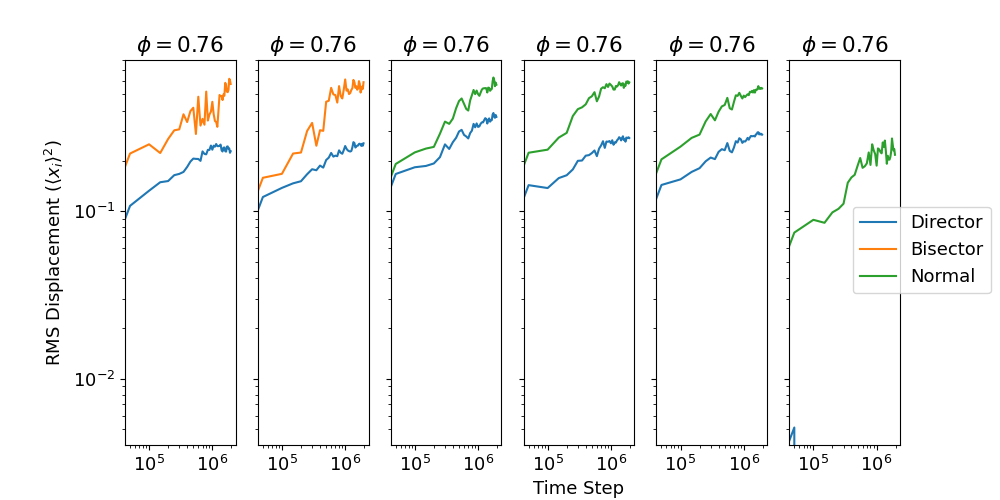
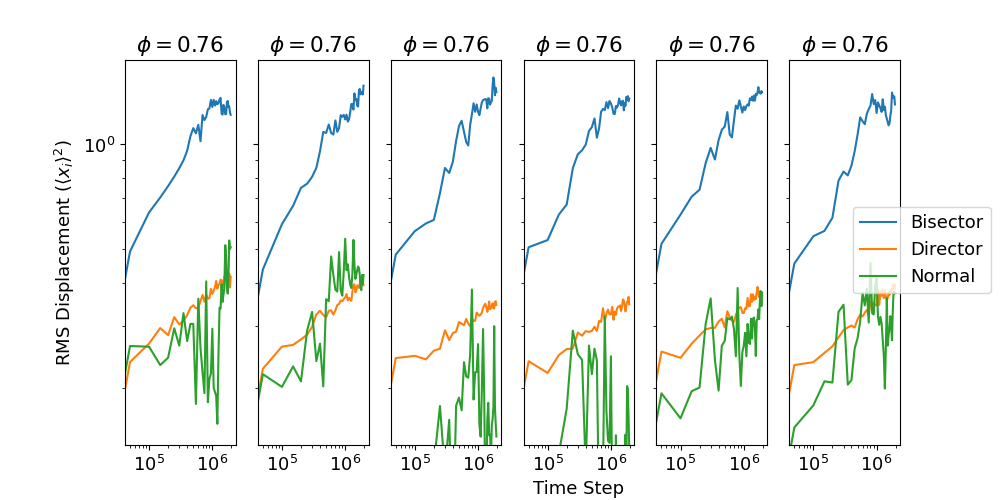
updated displacement matrix analysis

diff --git a/Phase_Structure/Nunchucks/Fixed_Rigidity/correlation_plot_FT.py b/Phase_Structure/Nunchucks/Fixed_Rigidity/correlation_plot_FT.py
@@ -1,0 +1,275 @@
+"""Optimised method to calculate the pair-wise orientational order correlation function.
+As detailed by Daan Frenkel, uses spherical harmonics so avoid costly angle calculations (which are O(N^2))
+as well as fourier transform methods. 
+Uses the end-to-end molecule vector as the director."""
+
+import numpy as np
+import matplotlib.pyplot as plt
+import matplotlib.cm as cm
+import seaborn as sns
+from scipy.ndimage import uniform_filter1d  # for rolling average
+from scipy.special import sph_harm
+from phase_plot import vol_frac
+
+FILE_ROOT = "output_T_0.5_time_"  # two underscores to match typo in previous code
+SAMPLING_FREQ = 20  # only samples one in X files (must be integer)
+SEPARATION_BIN_NUM = 20  # number of bins for radius dependance pair-wise correlation
+
+# mol_length = 10  #uncomment on older datasets
+
+plt.rcParams.update({"font.size": 13})  # for figures to go into latex at halfwidth
+
+# READ PARAMETER VALUES FROM LOG FILE
+
+file_name = "log.lammps"
+log_file = open(file_name, "r")
+mix_steps_values = []
+
+for i, line in enumerate(log_file):
+    """For loop iteratres over every line in file to find the required variables.
+
+    However, because the dump_interval occurs last (in the main body not the preamble)
+    we break at this point to avoid reading the whole file unnecessarily."""
+
+    if "variable N" in line:  # to extract independant variable value of N
+        for t in line.split():  # separate by whitespace
+            try:
+                N_molecules = int(t)
+            except ValueError:
+                pass  # any non-floats in this line are ignored
+
+    if "variable len" in line:  # to extract length of molecule
+        for t in line.split():
+            try:
+                mol_length = int(t)
+            except ValueError:
+                pass  # any non-floats in this line are ignored
+
+    if "dump" and "all custom" in line:  # to extract time interval for dump
+        for t in line.split():
+            try:
+                dump_interval = int(t)
+                # interval is the last integer in that line
+            except ValueError:
+                pass
+        break  # got all data, break from for loop
+
+    if "variable mix_steps" in line:  # to extract mix_steps (for shrinking)
+        run_num = 0  # counts number of runs
+        for t in line.split():
+            try:
+                mix_steps_values.append(int(t))
+                run_num += 1
+            except ValueError:
+                pass
+
+    if "variable run_steps" in line:  # to extract run_steps (for equilibration)
+        for t in line.split():
+            try:
+                equilibrium_time = int(t)  # time per run
+            except ValueError:
+                pass
+        # this comes up first in file so no searching variable here
+
+log_file.close()
+
+tot_mix_time = sum(mix_steps_values)
+run_time = tot_mix_time + run_num * equilibrium_time
+time_range = range(0, int(run_time), int(dump_interval * SAMPLING_FREQ))
+print(
+    "N_molecules, run_time, dump_interval = "
+    + str((N_molecules, run_time, dump_interval))
+)
+
+
+# time_range = range(0, 3300000, 100000)  # FOR SIMPLICITY IN TESTING
+
+
+def find_angles(vec_array):
+    """Finds spherical angles of cartesian position. Returns theta and phi in N x 2 array
+    
+    vec_array should be of size N x 3, for N angles (ie N particles)
+    Choice of (normalised) base vector is arbitrary in order param formulation"""
+
+    assert vec_array.shape[1] == 3, "Vectors should be three dimensional"
+    radius = np.linalg.norm(vec_array, axis=1)
+    theta = np.arccos(vec_array[:, 2] / radius)
+    phi = np.arctan2(vec_array[:, 1], vec_array[:, 0])
+    return theta, phi
+
+
+def find_separations(pos_array, base_pos, box_dim):
+    """Finds separation of positions in array from a base position
+
+    This method finds the minimum separation, accounting for the periodic BC
+    pos1, pos2 are the position vectors of the two points
+    box_dim is a vector (of equal length) giving the dimensions of the simulation region"""
+
+    separation_data = pos_array - base_pos
+    for n in range(pos_array.shape[0]):
+        for i in range(3):  # for 3 dimensional vector
+            if np.abs(pos_array[n, i] - base_pos[i]) > box_dim[i] / 2:
+                # use distance to ghost instead
+                separation_data[n, i] = box_dim[i] - np.abs(
+                    pos_array[n, i] - base_pos[i]
+                )
+
+    return np.linalg.norm(separation_data, axis=1)
+
+
+def spherical_harmonic_sum(theta_array, phi_array, l, m):
+    """ Returns sum  of spherical harmonics of order l,m"""
+    angles_sum = np.sum(sph_harm(m, l, theta_array, phi_array).real)
+    return angles_sum
+
+
+def correlation_func(data, box_dim, bin_num, order):
+    """Input data in array of size Molecule Number x 3 x 3
+
+    Input data will be rod_positions array which stores input data   
+    First index gives molecule number (up to size N_molecules)
+    Second index gives particle number within molecule (first/last)
+    Third index gives the component of the position (x,y,z)
+
+    Also input  'order' - order of correlation function to compute
+                'box_dim' - list of simulation box dimensions
+                'bin_num' - integer value for number of radius bins to evaluate
+
+    Returns array of correlation data at each radius"""
+
+    directors = data[:, 2, :] - data[:, 0, :]
+    theta_array, phi_array = find_angles(directors)
+
+    max_separation = np.linalg.norm(box_dim) / 2
+
+    bin_width = max_separation / bin_num
+    separation_bins = np.linspace(0, max_separation, bin_num, endpoint=False)
+    correlation_data = np.zeros_like(separation_bins)
+
+    for n, radius in enumerate(separation_bins):
+        order_param_sum = 0
+        sample_size = 0
+
+        for i in range(N_molecules):
+            running_tot = 0
+
+            separation_array = find_separations(data[:, 2, :], data[i, 2, :], box_dim)
+            relevant_theta = np.ma.masked_where(
+                np.logical_or(
+                    (separation_array < radius),
+                    (separation_array > (radius + bin_width)),
+                ),
+                theta_array,
+            )
+            relevant_phi = np.ma.masked_where(
+                np.ma.getmask(relevant_theta), phi_array
+            )  # applies the mask of theta on phi
+
+            for m in range(-order, order + 1):  # from -l to l
+                harmonic_at_i = sph_harm(m, order, theta_array[i], phi_array[i]).real
+                harmonics_sum = spherical_harmonic_sum(
+                    relevant_theta, relevant_phi, order, m
+                )
+                # remove i=j term from sum, then multiply by harmonic for molecule i
+                running_tot += (harmonics_sum - harmonic_at_i) * harmonic_at_i
+
+            order_param_sum += (4 * np.pi / (2 * order + 1)) * running_tot
+            sample_size += relevant_theta.count()  # number of pairs sampled
+
+        correlation_data[n] = order_param_sum / sample_size
+
+        print("    radius = " + str(int(radius)) + "/" + str(int(max_separation)))
+    print(correlation_data)
+    return separation_bins, correlation_data
+
+
+# READ MOLECULE POSITIONS
+
+order_param_values = np.zeros(len(time_range))
+volume_values = np.full(len(time_range), np.nan)  # new array of NaN
+for i, time in enumerate(time_range):  # interate over dump files
+    data_file = open(FILE_ROOT + str(time) + ".dump", "r")
+    extract_atom_data = False  # start of file doesn't contain particle values
+    extract_box_data = False  # start of file doesn't contain box dimension
+
+    box_volume = 1
+    box_dimensions = []  # to store side lengths of box for period boundary adjustment
+    rod_positions = np.zeros((N_molecules, 3, 3))
+    """Indices are Molecule Number; Atom number 1st/mid/last ; Positional coord index"""
+
+    for line in data_file:
+        if "ITEM: BOX" in line:  # to start reading volume data
+            extract_box_data = True
+            extract_atom_data = False
+            continue  # don't attempt to read this line
+
+        if "ITEM: ATOMS" in line:  # to start reading particle data
+            extract_box_data = False
+            extract_atom_data = True
+            continue
+
+        if extract_box_data and not extract_atom_data:
+            # evaluate before particle values
+            # each line gives box max and min in a single axis
+            box_limits = []
+            for d in line.split():  # separate by whitespace
+                try:
+                    box_limits.append(float(d))
+                except ValueError:
+                    pass  # any non-floats in this line are ignored
+            box_volume *= box_limits[1] - box_limits[0]
+            # multiply box volume by length of this dimension of box
+            box_dimensions.append(box_limits[1] - box_limits[0])
+
+        if extract_atom_data and not extract_box_data:
+            # evaluate after box dimension collection
+            # each line is in the form "id mol type x y z vx vy vz"
+            particle_values = []
+            for t in line.split():  # separate by whitespace
+                try:
+                    particle_values.append(float(t))
+                except ValueError:
+                    pass  # any non-floats in this line are ignored
+
+            # # Save positional coordatinates of end particles - REGULAR
+            # if int(particle_values[2]) == 1:  # first particle
+            #     rod_positions[int(particle_values[1]) - 1, 0, :] = particle_values[3:6]
+            # if int(particle_values[2]) == int((mol_length + 1) / 2):  # central particle
+            #     rod_positions[int(particle_values[1]) - 1, 1, :] = particle_values[3:6]
+            # if int(particle_values[2]) == mol_length:  # last particle
+            #     rod_positions[int(particle_values[1]) - 1, 2, :] = particle_values[3:6]
+
+            # Save positional coordatinates of end particles - CLOSE
+            centre = (mol_length + 1) / 2
+            if int(particle_values[2]) == int(centre - 1):
+                rod_positions[int(particle_values[1]) - 1, 0, :] = particle_values[3:6]
+            if int(particle_values[2]) == int(centre):  # central particle
+                rod_positions[int(particle_values[1]) - 1, 1, :] = particle_values[3:6]
+            if int(particle_values[2]) == int(centre + 1):
+                rod_positions[int(particle_values[1]) - 1, 2, :] = particle_values[3:6]
+
+    data_file.close()  # close data_file for time step t
+    volume_values[i] = box_volume
+    separation_bins, correlation_data = correlation_func(
+        rod_positions, box_dimensions, SEPARATION_BIN_NUM, order=2
+    )  # evaluate order param at time t
+
+    tot_plot_num = len(time_range)
+    colors = plt.cm.cividis(np.linspace(0, 1, tot_plot_num))
+    if i == 0:
+        continue  # don't plot this case
+    plt.plot(
+        separation_bins, correlation_data, color=colors[i],
+    )
+
+    print("T = " + str(time) + "/" + str(run_time))
+
+sm = plt.cm.ScalarMappable(cmap=cm.cividis, norm=plt.Normalize(vmin=0, vmax=run_time))
+cbar = plt.colorbar(sm)
+cbar.ax.set_ylabel("Number of Time Steps", rotation=270, labelpad=15)
+
+plt.title("Pairwise Angular Correlation Function")
+plt.xlabel("Particle Separation")
+plt.ylabel("Correlation Function")
+plt.savefig("correlation_func_FT.png")
+plt.show()

diff --git a/Phase_Structure/Nunchucks/Fixed_Angle/Crystalline/No_Transition/diffusion_matrix.py b/Phase_Structure/Nunchucks/Fixed_Angle/Crystalline/No_Transition/diffusion_matrix.py
@@ -16,9 +16,16 @@ from scipy.ndimage import uniform_filter1d  # for rolling average
 from scipy.stats import linregress  # for linear regression
 from phase_plot import vol_frac
 
-FILE_ROOT = "output_T_0.5_time_"  # two underscores to match typo in previous code
+FILE_ROOT = (
+    "output_T_0.5_time_"  # two underscores if needed to match typo in previous code
+)
+
 USE_CARTESIAN_BASIS = False
-PLOT_BEST_FIT = True
+USE_MANUAL_BASIS = False  # Primarily for testing, can set basis manually
+USE_AVERAGE_BASIS = False
+# Avarage vectors used for system basis, otherwise final disp used
+
+PLOT_BEST_FIT = False
 
 
 plt.rcParams.update({"font.size": 13})  # for figures to go into latex at halfwidth
@@ -279,17 +286,19 @@ for plot_index, data_index in enumerate(plot_list):
 
     #   MATRIX DIAGONALISATION
     final_displacement = rms_disp_values[data_index, -2, :, :]
+    print(final_displacement)
     # penultimate array used as final array is nans
     eigen_val, vec_basis = np.linalg.eig(final_displacement)
 
     # # Alternative method based on average
-    # vec_basis_list = np.zeros((len(eq_range) - 2, 3, 3))
-    # for i in range(1, len(eq_range) - 2):
-    #     print(i)
-    #     eigen_val, vec_basis_list[i, :, :] = np.linalg.eig(
-    #         rms_disp_values[data_index, i, :, :]
-    #     )
-    # vec_basis = np.mean(vec_basis_list, axis=0)
+    if USE_AVERAGE_BASIS:
+        vec_basis_list = np.zeros((len(eq_range) - 2, 3, 3))
+        for i in range(1, len(eq_range) - 2):
+            eigen_val, vec_basis_list[i, :, :] = np.linalg.eig(
+                rms_disp_values[data_index, i, :, :]
+            )
+        vec_basis = np.mean(vec_basis_list, axis=0)
+        vec_basis = vec_basis / np.linalg.norm(vec_basis, axis=0)
 
     axis_labels = ["Ax 1", "Ax 2", "Ax 3"]  # until they have been identified
     # axis_labels = ["Director", "Bisector", "Normal"]  # once they have been identified
@@ -298,6 +307,11 @@ for plot_index, data_index in enumerate(plot_list):
         # Non-diagonalised case used for testing - override prev basis
         vec_basis = np.identity(3)
         axis_labels = ["x", "y", "z"]
+
+    if USE_MANUAL_BASIS:
+        # SET BASIS MANUALLY
+        vec_basis = np.array([[0, 1, 0], [0.4, 0, 0.9], [0.9, 0, 0.4]])
+        axis_labels = ["Director", "Bisector", "Normal"]
 
     print(vec_basis)
 
@@ -356,6 +370,6 @@ ax.set_ylim((0.01, None))
 axs[int(len(plot_list) / 2)].set_xlabel("Time Step")  # use median of plot_list
 axs[0].set_ylabel(r"RMS Displacement ($\langle x_{i}\rangle^{2}$)")
 fig.legend(loc="center right")
-plt.savefig("rms_displacement_runwise_matrix.png")
+plt.savefig("rms_displacement_runwise_matrix_sys2.png")
 plt.show()
 

diff --git a/Phase_Structure/Nunchucks/Fixed_Angle/Crystalline/No_Transition/biaxial_diffusion.py b/Phase_Structure/Nunchucks/Fixed_Angle/Crystalline/No_Transition/biaxial_diffusion.py
@@ -11,7 +11,7 @@ from phase_plot import vol_frac
 
 FILE_ROOT = "output_T_0.5_time_"  # two underscores to match typo in previous code
 DIRECTIONAL_COEFF = True  # Must be true for system basis = True
-USE_SYS_BASIS = False
+USE_SYS_BASIS = True
 
 plt.rcParams.update({"font.size": 13})  # for figures to go into latex at halfwidth
 
@@ -326,6 +326,8 @@ for i, time in enumerate(time_range):  # interate over dump files
     )
 
     previous_positions = com_positions
+
+print(rms_disp_values[:, -2, :])  # to track overall displacement
 
 #  FIND RELEVANT COMPONENTS OF DIFFUSION
 if not DIRECTIONAL_COEFF:
